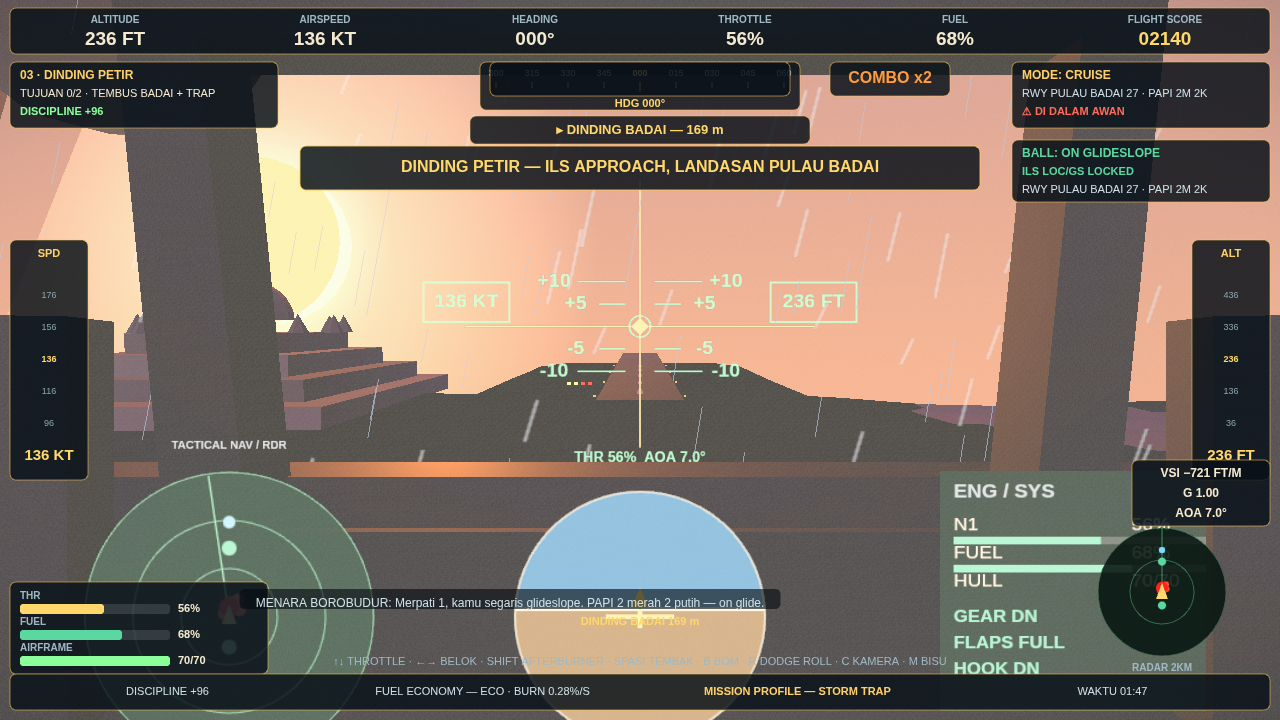
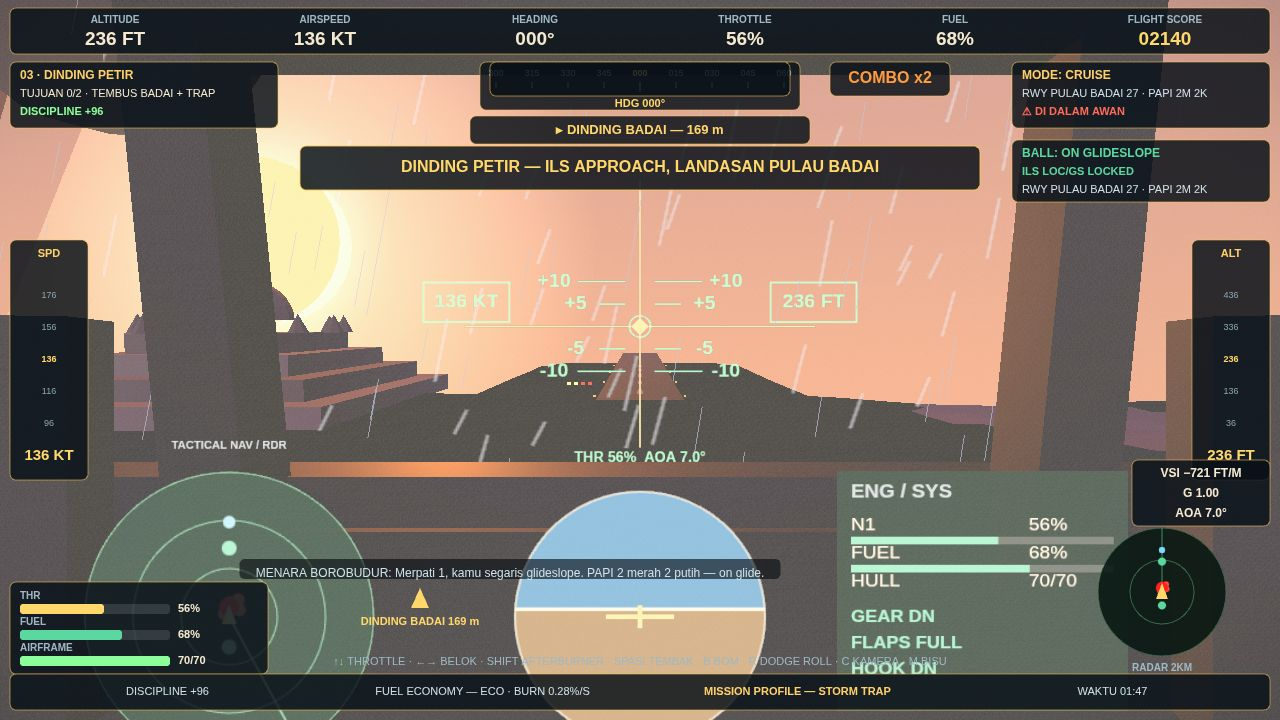
Revision round 4 polish: shot-2 overlap fixes + score sync + real touchdown + title screen

diff --git a/game/hud.js b/game/hud.js
@@ -202,15 +202,26 @@ export class HeadsUpDisplay {
       const p = this._project(s.target.pos, s.camera);
       if (p && p.z < 1 && Math.abs(p.x) < 1.05 && Math.abs(p.y) < 1.05) {
         const gx = (p.x * 0.5 + 0.5) * W, gy = (0.5 - p.y * 0.5) * H;
-        this._panel(gx - 85, gy - 52, 170, 26);
-        this._text(s.target.label + ' · ' + Math.round(s.targetDist) + ' m', gx, gy - 39, 12, '#ffd76a', 'center', true);
+        // POLES r5 item 1b: di kokpit, chip yang jatuh di zona dasbor
+        // bawah-tengah menempel di atas bola attitude (kuning di atas tan =
+        // nyaris tak terbaca). Naikkan 180 px — ke langit kosong di atas bola,
+        // di bawah ladder -10 dan teks THR/AOA — supaya terbaca penuh.
+        const cy2 = (s.cockpit && gy > H - 240) ? gy - 180 : gy;
+        this._panel(gx - 85, cy2 - 52, 170, 26);
+        this._text(s.target.label + ' · ' + Math.round(s.targetDist) + ' m', gx, cy2 - 39, 12, '#ffd76a', 'center', true);
       } else {
         // Panah tepi-frame ke arah target.
         const dx = s.target.pos.x - s.playerX, dz = s.target.pos.z - s.playerZ;
         const ang = Math.atan2(dx, -dz) - (d.hdg * Math.PI / 180);
         const ex = W / 2 + Math.sin(ang) * (W / 2 - 90);
         const ey = H / 2 - Math.cos(ang) * (H / 2 - 120);
-        const exx = clamp(ex, 60, W - 60), eyy = clamp(ey, 120, H - 60);
+        let exx = clamp(ex, 60, W - 60), eyy = clamp(ey, 120, H - 60);
+        // POLES r5 item 1b (lanjutan): di kokpit shot 2, target DINDING BADAI
+        // ada DI BELAKANG jet (z -800 vs jet -950) — panah tepi jatuh di tengah
+        // bawah, tepat di atas bola attitude (kuning di atas tan). Geser kiri
+        // 220 px — ke sela kosong antara radar scope dan bola; arah (bawah =
+        // di belakang) tetap terjaga. Mode chase tidak berubah.
+        if (s.cockpit) exx = clamp(exx - 220, 60, W - 60);
         c.fillStyle = '#ffd76a';
         c.beginPath();
         c.moveTo(exx, eyy - 12); c.lineTo(exx - 9, eyy + 8); c.lineTo(exx + 9, eyy + 8);
@@ -288,7 +299,10 @@ export class HeadsUpDisplay {
     // m1: di mode kokpit, teks digeser ke kiri (pusat -130 px) + diberi
     // backing gelap supaya terbaca di atas bola attitude / radar scope —
     // tanpa backing, teks kuning pucat di atas bola tan hampir tak terbaca.
-    let ry = H - 116;
+    // POLES r5 item 1c: di kokpit, teks radio naik 30 px (H-146) — tadinya
+    // menumpuk di atas baris hint kontrol bawah. Mode chase tidak berubah
+    // (shot 1/3/4 pixel-identik untuk baris ini).
+    let ry = s.cockpit ? H - 146 : H - 116;
     const radioX = s.cockpit ? W / 2 - 130 : W / 2;
     for (let i = this.radioLines.length - 1; i >= 0; i--) {
       const rl = this.radioLines[i];

diff --git a/game/presentation.js b/game/presentation.js
@@ -47,14 +47,19 @@ export const SHOT_DEFS = {
     // TOUCHDOWN / rollout di landasan pulau (bukan approach): LSO hanya boleh
     // tampil SETELAH touchdown — di sini jet SUDAH mendarat (landed: true),
     // jadi panel LSO tampil secara sah dengan TOUCHDOWN KT = SPD saat itu.
+    // POLES r5 item 2+3: skor disamakan dengan debrief shot 5 (5,301 sortie /
+    // 5,001 banked — 4200 + 801 bonus presisi + 300 wingman, banked = 5001);
+    // touchdown BENERAN: y 44,8 = perut pesawat (radius badan 0,62) tepat di
+    // permukaan strip (44,15), roll 0 (sayap datar), VSI 0 (pitch 0), SPD 65
+    // m/s = 126 KT = touchdownKt. ALT 0 FT via radio-altimeter di _hudState.
     mission: 3, gameT: 192, camera: 'chase',
-    jet: { x: 0, y: 45.5, z: -1330, heading: 0, pitch: 0, roll: -8, speed: 65, throttle: 0.5, fuel: 41, hull: 90 },
-    score: 4200, gates: 0, combo: 3, discipline: 128, kills: 5,
+    jet: { x: 0, y: 44.8, z: -1330, heading: 0, pitch: 0, roll: 0, speed: 65, throttle: 0.5, fuel: 41, hull: 90 },
+    score: 5301, gates: 0, combo: 3, discipline: 128, kills: 5,
     banner: 'MENDARAT — SKOR AMAN · LANDASAN PULAU BADAI',
     radio: [['MENARA BOROBUDUR', 'Merpati 1, landasan pulau di depan. PAPI menyala — bawa pulang.']],
     afterburner: false, windText: 'WIND SHEAR 12 KT · HUJAN',
     rain: 0.8, lso: true, wallCrossed: true, carrierDead: true, landed: true,
-    stagedLso: { grade: 'OK', centerline: '0.4', sink: '2.1', kt: 126, fuel: 41, score: '4,200' },
+    stagedLso: { grade: 'OK', centerline: '0.4', sink: '2.1', kt: 126, fuel: 41, score: '5,301', banked: '5,001' },
   },
   5: {
     // DEBRIEF (bukti, bukan shot dossier): layar grade + medal + modul,

diff --git a/game/main.js b/game/main.js
@@ -519,6 +519,11 @@ export class Game {
   _hudState() {
     const f = this.flight;
     const d = f.display();
+    // POLES r5 item 3: radio-altimeter saat mendarat — roda di landasan =
+    // 0 FT. ALT MSL (pos.y x 3,28) di landasan pulau (y=44) membaca 149 FT
+    // padahal jet sudah touchdown; angka itu menyesatkan di shot 4. Hanya
+    // saat landed; shot 1/2/3 (terbang) tidak berubah. Pita ALT ikut 0.
+    if (f.landed) d.ft = 0;
     const ctx = this.missionCtx();
     const target = this.missions.currentTarget(ctx);
     const targetDist = target ? Math.hypot(target.pos.x - f.pos.x, target.pos.y - f.pos.y, target.pos.z - f.pos.z) : 0;
@@ -559,7 +564,7 @@ export class Game {
       clock: String(mins).padStart(2, '0') + ':' + String(secs).padStart(2, '0'),
       flashAlpha: this.weather.flashAlpha,
       endBanner: this.missions.phase === 'done'
-        ? { text: 'MENDARAT — SKOR AMAN', sub: 'Bank +' + Math.round(this.missions.score).toLocaleString('en-US') + ' · Repair selesai' }
+        ? { text: 'MENDARAT — SKOR AMAN', sub: 'Bank +' + (this.stagedLso && this.stagedLso.banked ? this.stagedLso.banked : Math.round(this.missions.score).toLocaleString('en-US')) + ' · Repair selesai' }
         : this.missions.phase === 'failed'
           ? { text: 'JATUH — COBA LAGI', sub: 'Restart dalam 5 detik · tekan RETRY di debrief' }
           : null,

diff --git a/game/cockpit.js b/game/cockpit.js
@@ -110,11 +110,15 @@ export class RealCockpit {
     this.engTex = new THREE.CanvasTexture(cv);
     // m1: panel ENG/SYS digeser ke kanan + dipersempit (0,38 -> 0,34) supaya
     // tidak menabrak bola attitude di tengah dan tidak menutup teks radio.
+    // POLES r5 item 1a: geser kiri lagi (x 0,52 -> 0,40, ~110 px layar) —
+    // lingkaran RADAR 2KM (HUD 2D, kanan-bawah) menutupi angka N1/FUEL/HULL
+    // di tepi kanan panel. Di x 0,40 angka terbaca penuh; panel tetap bersih
+    // dari bola attitude (celah ~50 px) dan panel VSI.
     const plane = new THREE.Mesh(new THREE.PlaneGeometry(0.34, 0.28),
       new THREE.MeshBasicMaterial({ map: this.engTex, transparent: true, depthWrite: false }));
     // Diangkat (y -0,27, tinggi 0,28): baris bawah "HOOK DN" r4 terpotong
     // bar HUD bawah.
-    plane.position.set(0.52, -0.27, -0.70);
+    plane.position.set(0.40, -0.27, -0.70);
     this.group.add(plane);
   }
 
